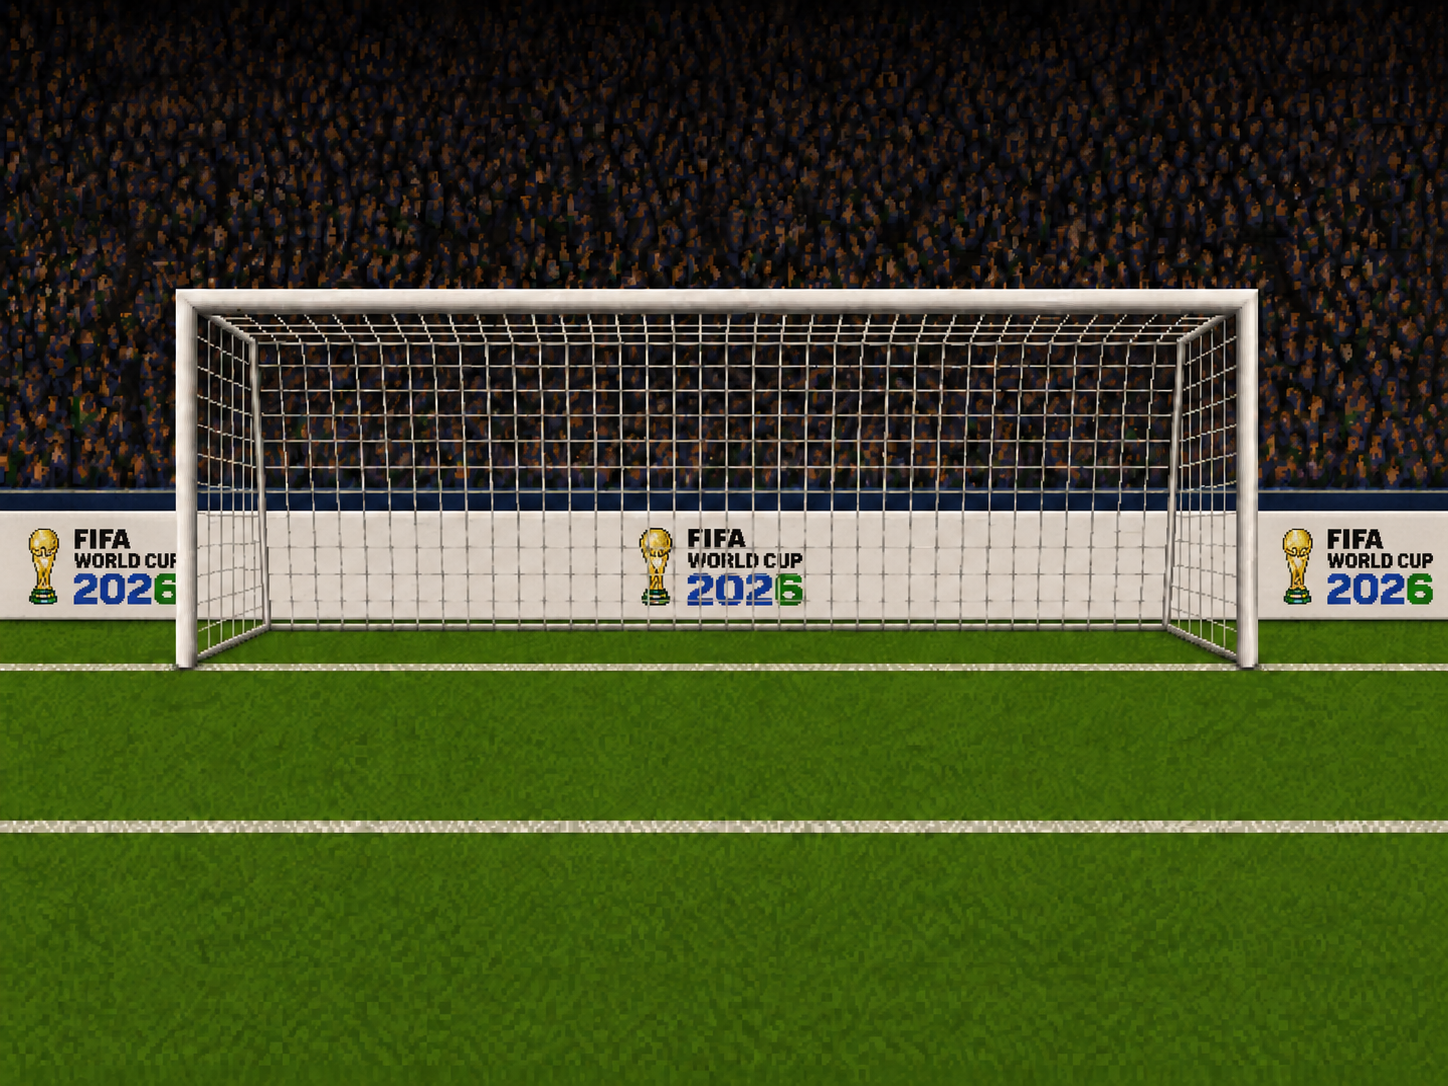
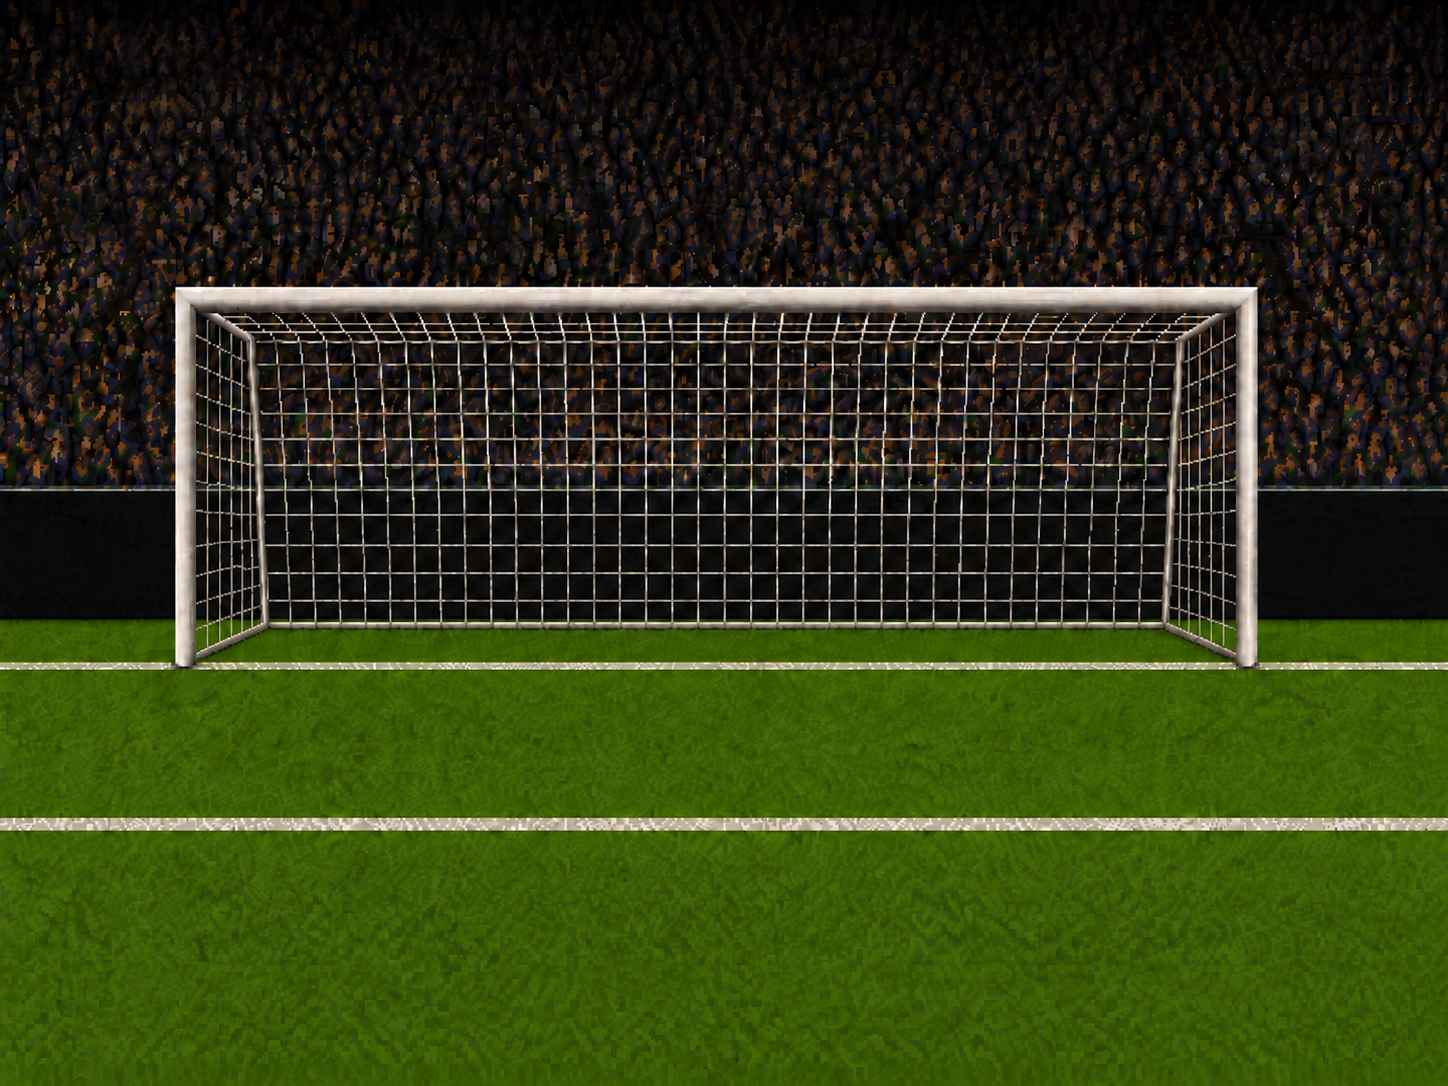
Add Casillas mini game option and World Cup branding

diff --git a/index.html b/index.html
@@ -5629,9 +5629,9 @@ const MG_FALLBACK_PLAYERS=['Jakob','Annie','Leo','Daniel','Jeppe','Pontus','Pau'
 // Extra players available only in the Mini Game (not in the predictor/leaderboard).
 const MG_EXTRA_PLAYERS=['Malin'];
 const MG_BALL_TARGETS=[
-  {left:3,top:55},
+  {left:3,top:51},
   {left:50,top:51},
-  {left:97,top:55}
+  {left:97,top:51}
 ];
 const MG_KEEPERS={
   italy:{
@@ -5653,12 +5653,25 @@ const MG_KEEPERS={
     missLeft:'kahn-dive-miss-left.png',
     saveRight:'kahn-dive-save-right.png',
     missRight:'kahn-dive-miss-right.png'
+  },
+  spain:{
+    name:'Iker Casillas',
+    logo:'spain-logo.png',
+    ready:'casillas-ready.png',
+    middle:'casillas-middle.png',
+    saveLeft:'casillas-dive-save-left.png',
+    missLeft:'casillas-dive-miss-left.png',
+    saveRight:'casillas-dive-save-right.png',
+    missRight:'casillas-dive-miss-right.png'
   }
 };
-const MG_KEEPER_ORDER=['germany','italy'];
+const MG_KEEPER_ORDER=['germany','italy','spain'];
+const MG_KEEPER_LABELS={germany:'Germany',spain:'Spain',italy:'Italy'};
 const MG_BALL_ORDER=['2002','2006','2010','2014','2018','2022','2026'];
 function mgAssets(){return MG_KEEPERS[MG.keeper]||MG_KEEPERS.italy;}
+function mgKeeperLabel(key=MG.selectedKeeper){return MG_KEEPER_LABELS[key]||MG_KEEPER_LABELS.germany;}
 function mgBallSrc(){return `ball-${MG.selectedBall}.png`;}
+function mgWcLogoSrc(){return `wc-logo-${MG.selectedBall}.png`;}
 function mgPlayerNames(){
   const base=(STATE.players||[]).map(p=>p.name).filter(Boolean);
   const names=(base.length?base:MG_FALLBACK_PLAYERS).slice();
@@ -5758,7 +5771,10 @@ function mgKeeperAsset(zone,outcome){
 }
 function mgSetKeeper(src){
   const img=document.getElementById('mg-keeper-img');
-  if(img) img.src=src;
+  if(img){
+    img.src=src;
+    img.className='mg-gk '+(/^casillas-dive-/.test(src)?'mg-gk-casillas-dive':'');
+  }
 }
 function mgFlash(outcome){
   const flash=document.getElementById('mg-flash');
@@ -5786,25 +5802,26 @@ function mgKeeperChooser(){
   const keeper=MG_KEEPERS[MG.selectedKeeper]||MG_KEEPERS.germany;
   return `<div class="mg-wrap">
     <div class="mg-select">
+      ${mgWcLogoMarkup()}
       <div class="mg-panel">
         <div class="mg-selectors">
           <div class="mg-selector-block">
-            <div class="mg-selector-label" id="mg-team-label">${MG.selectedKeeper==='italy'?'Italy':'Germany'}</div>
+            <div class="mg-selector-label" id="mg-team-label">${mgKeeperLabel()}</div>
             <div class="mg-carousel">
-              <button class="mg-arrow" onclick="mgCycleKeeper(1)" aria-label="Switch goalkeeper">‹</button>
-              <button class="mg-choice mg-team-choice" onclick="mgCycleKeeper(1)" aria-label="Selected goalkeeper: ${keeper.name}">
+              <button class="mg-arrow" onclick="mgCycleKeeper(-1)" aria-label="Previous goalkeeper">‹</button>
+              <div class="mg-choice mg-team-choice" aria-label="Selected goalkeeper: ${keeper.name}">
                 <img id="mg-selected-logo" class="mg-logo-${MG.selectedKeeper}" src="${keeper.logo}" alt="${keeper.name}">
-              </button>
-              <button class="mg-arrow" onclick="mgCycleKeeper(1)" aria-label="Switch goalkeeper">›</button>
+              </div>
+              <button class="mg-arrow" onclick="mgCycleKeeper(1)" aria-label="Next goalkeeper">›</button>
             </div>
           </div>
           <div class="mg-selector-block">
             <div class="mg-selector-label" id="mg-ball-label">${MG.selectedBall}</div>
             <div class="mg-carousel">
               <button class="mg-arrow" onclick="mgCycleBall(-1)" aria-label="Previous ball">‹</button>
-              <button class="mg-choice mg-ball-choice" onclick="mgCycleBall(1)" aria-label="Selected ball: ${MG.selectedBall}">
-                <img id="mg-selected-ball" src="${mgBallSrc()}" alt="World Cup ball ${MG.selectedBall}">
-              </button>
+              <div class="mg-choice mg-ball-choice" aria-label="Selected ball: ${MG.selectedBall}">
+                <img id="mg-selected-ball" class="mg-ball-logo-${MG.selectedBall}" src="${mgBallSrc()}" alt="World Cup ball ${MG.selectedBall}">
+              </div>
               <button class="mg-arrow" onclick="mgCycleBall(1)" aria-label="Next ball">›</button>
             </div>
           </div>
@@ -5818,6 +5835,7 @@ function mgGameMarkup(){
   const assets=mgAssets();
   return `<div class="mg-wrap">
     <div class="mg-pitch">
+      ${mgWcLogoMarkup()}
       <div class="mg-hud">
         <span>STREAK: <b id="mg-streak">0</b></span>
         <span>HIGH SCORE: <b id="mg-best">0</b></span>
@@ -5833,6 +5851,11 @@ function mgGameMarkup(){
     </div>
     <div class="mg-msg" id="mg-msg">Shoot left, centre or right 👆</div>
   </div>`;
+}
+function mgWcLogoMarkup(){
+  const src=mgWcLogoSrc();
+  return `<img class="mg-wc-logo mg-wc-logo-left" src="${src}" alt="" aria-hidden="true" onerror="this.style.display='none';">
+    <img class="mg-wc-logo mg-wc-logo-right" src="${src}" alt="" aria-hidden="true" onerror="this.style.display='none';">`;
 }
 function renderMiniGame(){
   const c=document.getElementById('minigame-content'); if(!c) return;
@@ -5859,7 +5882,7 @@ function mgUpdateKeeperChooser(){
   const logo=document.getElementById('mg-selected-logo');
   if(logo){logo.src=keeper.logo;logo.alt=keeper.name;logo.className=`mg-logo-${MG.selectedKeeper}`;}
   const label=document.getElementById('mg-team-label');
-  if(label) label.textContent=MG.selectedKeeper==='italy'?'Italy':'Germany';
+  if(label) label.textContent=mgKeeperLabel();
 }
 function mgCycleKeeper(direction){
   const current=Math.max(0,MG_KEEPER_ORDER.indexOf(MG.selectedKeeper));
@@ -5869,9 +5892,13 @@ function mgCycleKeeper(direction){
 }
 function mgUpdateBallChooser(){
   const ball=document.getElementById('mg-selected-ball');
-  if(ball){ball.src=mgBallSrc();ball.alt=`World Cup ball ${MG.selectedBall}`;}
+  if(ball){ball.src=mgBallSrc();ball.alt=`World Cup ball ${MG.selectedBall}`;ball.className=`mg-ball-logo-${MG.selectedBall}`;}
   const label=document.getElementById('mg-ball-label');
   if(label) label.textContent=MG.selectedBall;
+  document.querySelectorAll('.mg-wc-logo').forEach(logo=>{
+    logo.style.display='';
+    logo.src=mgWcLogoSrc();
+  });
 }
 function mgCycleBall(direction){
   const current=Math.max(0,MG_BALL_ORDER.indexOf(MG.selectedBall));
@@ -5900,6 +5927,7 @@ function mgShoot(z){
   MG.busy=true;
   const kz=Math.floor(Math.random()*3); // keeper dives left / centre / right
   const target=MG_BALL_TARGETS[z]||MG_BALL_TARGETS[1];
+  ball.classList.add('mg-ball-shot');
   ball.style.left=target.left+'%'; ball.style.top=target.top+'%';
   keeper.style.left=MG_ZX[kz]+'%';
   const outcome = z===kz ? 'save' : 'goal';
@@ -5924,6 +5952,7 @@ function mgShoot(z){
     }
     setTimeout(()=>{
       ball.style.left='50%'; ball.style.top='150%';
+      ball.classList.remove('mg-ball-shot');
       keeper.style.left='50%';
       mgSetKeeper(mgAssets().ready);
       if(outcome==='save'){

diff --git a/styles.css b/styles.css
@@ -1082,9 +1082,12 @@
 [data-accent="purple"] .mg-score-btn { background:#9146F5; color:#fff; }
 [data-accent="purple"] .mg-score-btn:hover { background:#A05BFF; color:#fff; }
 .mg-wrap { width:100%; max-width:none; margin:0 auto; text-align:center; }
-.mg-select { position:relative; display:flex; flex-direction:column; align-items:center; justify-content:center; background-color:#05060a; background-image:url('penalty-bg.png'); background-size:cover; background-position:center; background-repeat:no-repeat; image-rendering:pixelated; border:2px solid var(--gold); border-radius:10px; width:100%; aspect-ratio:1448 / 1086; overflow:hidden; padding:2rem; }
+.mg-select { position:relative; display:flex; flex-direction:column; align-items:center; justify-content:center; background-color:#05060a; background-image:url('penalty-bg.png?v=20260703'); background-size:cover; background-position:center; background-repeat:no-repeat; image-rendering:pixelated; border:2px solid var(--gold); border-radius:10px; width:100%; aspect-ratio:1448 / 1086; overflow:hidden; padding:2rem; }
 [data-accent="purple"] .mg-select { border-color:#C27AFF; }
-.mg-panel { width:min(78%,840px); min-height:52%; display:flex; flex-direction:column; align-items:center; justify-content:center; gap:clamp(0.7rem,1.8vw,1.5rem); padding:clamp(1.35rem,4.5vw,3rem); border-radius:18px; background:rgba(0,0,0,0.78); box-shadow:0 16px 40px rgba(0,0,0,0.35); }
+.mg-wc-logo { position:absolute; top:51.2%; width:5%; height:auto; z-index:1; pointer-events:none; image-rendering:auto; transform:translateY(-50%); filter:drop-shadow(0 2px 2px rgba(0,0,0,0.35)); }
+.mg-wc-logo-left { left:3.7%; }
+.mg-wc-logo-right { right:3.7%; }
+.mg-panel { position:relative; z-index:2; width:min(78%,840px); min-height:52%; display:flex; flex-direction:column; align-items:center; justify-content:center; gap:clamp(0.7rem,1.8vw,1.5rem); padding:clamp(1.35rem,4.5vw,3rem); border-radius:18px; background:rgba(0,0,0,0.78); box-shadow:0 16px 40px rgba(0,0,0,0.35); }
 .mg-player-panel { gap:clamp(0.5rem,1.2vw,0.9rem); justify-content:center; min-height:72%; max-height:92%; overflow:visible; }
 .mg-player-title { color:#fff; font-family:'Bebas Neue',sans-serif; font-size:clamp(1.25rem,3.2vw,2.2rem); letter-spacing:0.06em; text-transform:uppercase; text-shadow:0 2px 5px rgba(0,0,0,0.75); flex-shrink:0; }
 .mg-player-grid { display:grid; grid-template-columns:repeat(3,minmax(0,1fr)); gap:0.36rem; width:100%; max-width:600px; }
@@ -1100,9 +1103,12 @@
 .mg-choice { width:100%; aspect-ratio:1; border:none; border-radius:0; background:transparent; display:flex; align-items:center; justify-content:center; cursor:pointer; transition:transform .15s,filter .15s; }
 .mg-choice:hover { transform:translateY(-2px); filter:drop-shadow(0 0 16px rgba(255,255,255,0.28)); }
 .mg-choice img { width:100%; height:100%; object-fit:contain; display:block; filter:drop-shadow(0 4px 10px rgba(0,0,0,0.55)); }
-.mg-team-choice img.mg-logo-italy { transform:scale(1.4); }
+.mg-team-choice,.mg-ball-choice { pointer-events:none; }
+.mg-team-choice img.mg-logo-italy { transform:translateY(4%) scale(1.5); }
+.mg-team-choice img.mg-logo-spain { transform:translateY(-2%) scale(0.82); }
 .mg-ball-choice img { transform:scale(0.78); }
-.mg-arrow { border:none; background:none; color:#fff; cursor:pointer; font-family:'Bebas Neue',sans-serif; font-size:clamp(2.4rem,6vw,4.6rem); line-height:1; padding:0 0.1rem; opacity:0.95; text-shadow:0 2px 5px rgba(0,0,0,0.75); transition:opacity .15s,transform .15s,color .15s; }
+.mg-ball-choice img.mg-ball-logo-2002 { transform:scale(0.68); }
+.mg-arrow { position:relative; z-index:2; border:none; background:none; color:#fff; cursor:pointer; font-family:'Bebas Neue',sans-serif; font-size:clamp(2.4rem,6vw,4.6rem); line-height:1; padding:0 0.1rem; opacity:0.95; text-shadow:0 2px 5px rgba(0,0,0,0.75); transition:opacity .15s,transform .15s,color .15s; }
 .mg-arrow:hover { opacity:1; transform:scale(1.08); color:var(--gold); }
 [data-accent="purple"] .mg-arrow:hover { color:#C27AFF; }
 .mg-start,.mg-try { min-width:150px; justify-content:center; border:none; background:var(--gold); color:#1a1409; font-weight:800; box-shadow:0 3px 12px rgba(0,0,0,0.35); }
@@ -1115,7 +1121,7 @@
 .mg-hud b { color:#fff; font:inherit; }
 /* Pixel-art stadium background. Falls back to a plain green pitch if the image
    isn't present yet. image-rendering:pixelated keeps the lo-fi look crisp. */
-.mg-pitch { position:relative; background-color:#05060a; background-image:url('penalty-bg.png'); background-size:cover; background-position:center; background-repeat:no-repeat; image-rendering:pixelated; border:2px solid var(--gold); border-radius:10px; width:100%; aspect-ratio:1448 / 1086; overflow:hidden; }
+.mg-pitch { position:relative; background-color:#05060a; background-image:url('penalty-bg.png?v=20260703'); background-size:cover; background-position:center; background-repeat:no-repeat; image-rendering:pixelated; border:2px solid var(--gold); border-radius:10px; width:100%; aspect-ratio:1448 / 1086; overflow:hidden; }
 [data-accent="purple"] .mg-pitch { border-color:#C27AFF; }
 .mg-flash { position:absolute; inset:0; z-index:5; pointer-events:none; opacity:0; mix-blend-mode:screen; }
 .mg-overlay { position:absolute; inset:0; z-index:8; display:none; align-items:center; justify-content:center; pointer-events:auto; }
@@ -1148,8 +1154,10 @@
    the crossbar. Diving only shifts him sideways along the line. */
 .mg-keeper { position:absolute; left:50%; top:0; bottom:-20%; transform:translateX(-50%); display:flex; align-items:flex-end; justify-content:center; z-index:3; pointer-events:none; transition:left .34s ease; }
 .mg-gk { display:block; width:auto; height:84%; object-fit:contain; filter:drop-shadow(0 2px 3px rgba(0,0,0,0.45)); }
+.mg-gk-casillas-dive { height:80%; }
 .mg-ball { position:absolute; left:50%; top:150%; transform:translate(-50%,-50%); width:10%; height:auto; z-index:4; pointer-events:none; filter:drop-shadow(0 1px 2px rgba(0,0,0,0.45));
-  transition:left .4s cubic-bezier(.35,1.3,.6,1), top .4s cubic-bezier(.35,1.3,.6,1); }
+  transition:left .4s cubic-bezier(.35,1.3,.6,1), top .4s cubic-bezier(.35,1.3,.6,1), width .4s cubic-bezier(.35,1.3,.6,1); }
+.mg-ball.mg-ball-shot { width:7.4%; }
 .mg-spot { display:none; }
 .mg-msg { margin-top:1rem; min-height:1.5rem; font-size:1.05rem; font-weight:700; letter-spacing:0.02em; color:var(--text); font-family:'Bebas Neue',sans-serif; }
 .mg-msg.goal { color:var(--green); }
@@ -1189,4 +1197,5 @@
 @media (min-width: 900px) {
   .mg-carousel { grid-template-columns:auto minmax(130px,10vw) auto; }
   .mg-ball-choice img { transform:scale(0.86); }
+  .mg-ball-choice img.mg-ball-logo-2002 { transform:scale(0.75); }
 }
